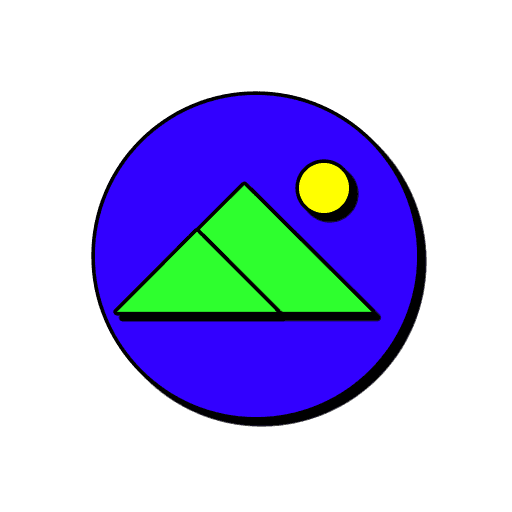
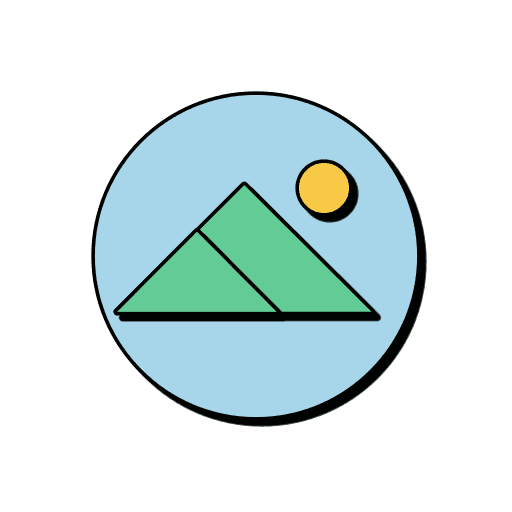
color scheme

Changed region(s): [[0.1875, 0.1875, 0.8438, 0.8125]]

diff --git a/src/components/Button.tsx b/src/components/Button.tsx
@@ -3,7 +3,7 @@ import { MouseEventHandler } from "react";
 interface Props {
   children?: React.ReactNode;
   onClick?: MouseEventHandler<HTMLButtonElement>;
-  color?: "bg-white";
+  color?: string;
 }
 
 export default function Button({
@@ -15,7 +15,7 @@ export default function Button({
     <button
       onClick={onClick}
       type="button"
-      className={`mx-5 rounded-3xl border border-solid border-black px-4 py-2 text-base shadow transition-[box-shadow,transform] duration-150 ease-[cubic-bezier(0.645,0.045,0.355,1)] ${color} hover:-translate-x-1 hover:-translate-y-1 hover:shadow-lg active:translate-x-0.5 active:translate-y-0.5 active:shadow-sm`}
+      className={`${color} mx-5 my-1 rounded-3xl border border-solid border-black px-4 py-2 text-base shadow transition-[box-shadow,transform] duration-150 ease-[cubic-bezier(0.645,0.045,0.355,1)] hover:-translate-x-1 hover:-translate-y-1 hover:shadow-lg active:translate-x-0.5 active:translate-y-0.5 active:shadow-sm`}
     >
       {children}
     </button>

diff --git a/src/App.tsx b/src/App.tsx
@@ -13,7 +13,7 @@ function App() {
   }, []);
 
   return (
-    <>
+    <div className="min-h-screen bg-tan">
       <div>
         <img src={logo} alt="Frame Kit Logo" />
       </div>
@@ -21,12 +21,16 @@ function App() {
       <div>
         <Button onClick={() => void loadImage()}>Load Rotated Image</Button>
         {url && <img src={url} width={150} height={150}></img>}
-        <p>
-          Edit <code>src/App.tsx</code> and save to test HMR
-        </p>
+        <hr />
+        <Button color="bg-tan">Tan Button</Button>
+        <Button color="bg-yellow">Yellow Button</Button>
+        <Button color="bg-blue">Blue Button</Button>
+        <Button color="bg-green">Green Button</Button>
+        <Button color="bg-pink">Pink Button</Button>
+        <Button color="bg-red">Red Button</Button>
       </div>
       <ReloadPrompt />
-    </>
+    </div>
   );
 }
 
